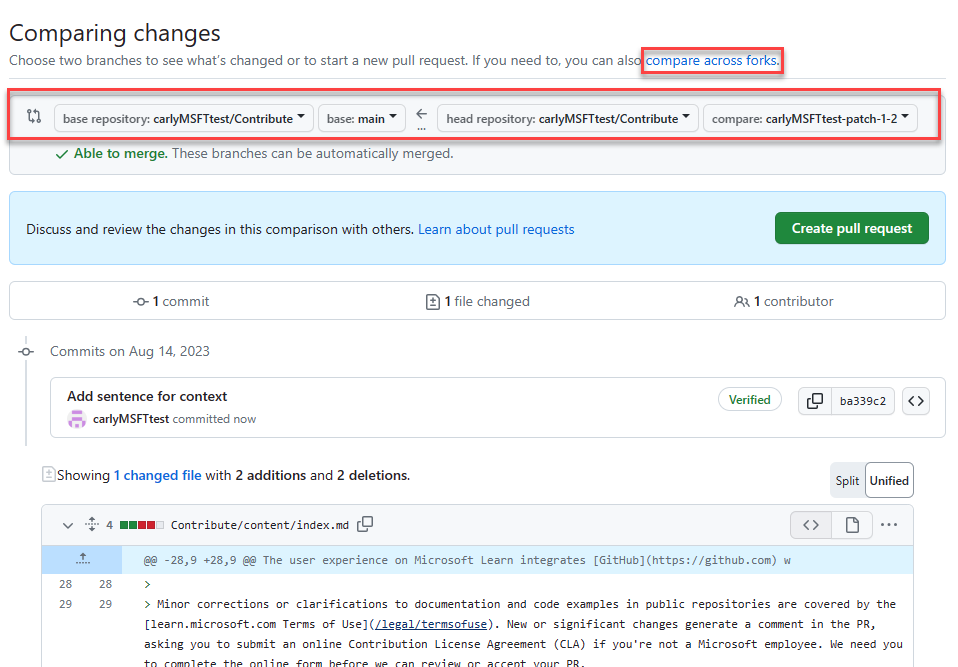
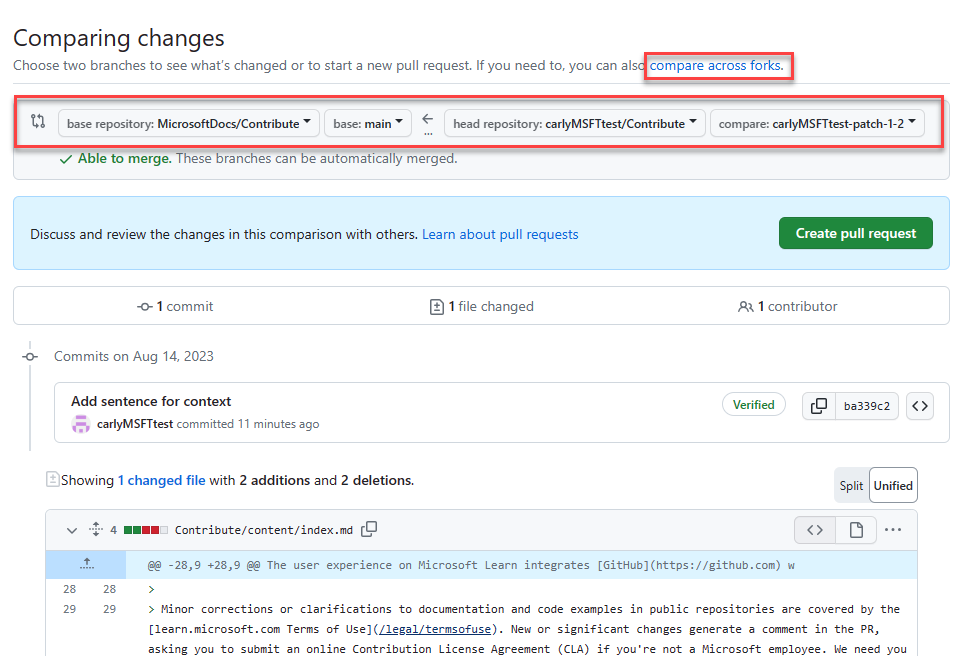
Change image and update alt text

diff --git a/Contribute/content/index.md b/Contribute/content/index.md
@@ -36,13 +36,13 @@ Quick edits streamline the process to report and fix small errors and omissions 
 
 1. Navigate to the documentation you wihs to edit. _Some_ docs pages allow you to edit content directly in the browser. If so, you'll see an **Edit** pencil icon like the one shown below. Choosing the **Edit** pencil icon takes you to the source file on GitHub.
 
-   :::image type="content" source="media/index/edit-article.png" alt-text="Screenshot of the edit article link.":::
+   :::image type="content" source="media/index/edit-article.png" alt-text="Screenshot of an Azure documentation article showing the edit pencil icon.":::
 
    If the **Edit** button isn't present, it means the content isn't open to public contributions. Some pages are generated (for example, from inline documentation in code) and must be edited in the project they belong to.
 
 1. Select the pencil icon at the top of the GitHub file page. If the pencil icon is grayed out or doesn't display, you need to log in to your GitHub account.
 
-   :::image type="content" source="media/index/edit-icon.png" alt-text="Location of the fork and edit pencil icon.":::
+   :::image type="content" source="media/index/edit-icon.png" alt-text="Screenshot of the Azure article within GitHub,showing the edit pencil icon.":::
 
     At the top of the article is the article's metadata. Metadata is applied to articles for reporting, discoverability via search, and driving aspects of the site experience. If you're making minor updates to a published article, you probably won't need to change the metadata.
 
@@ -54,13 +54,13 @@ Quick edits streamline the process to report and fix small errors and omissions 
 
 1. Enter a commit message. The commit message becomes the title of your PR and should be a brief summary of your changes (for example, "Fix spelling and grammar errors"). Optionally, add an **Extended description** to give more details about your changes. Select **Propose changes**:
 
-   :::image type="content" source="media/index/commit-changes.png" alt-text="Propose and commit file changes.":::
+   :::image type="content" source="media/index/commit-changes.png" alt-text="Screenshot of the propose changes pop-up.":::
 
 1. Now that you've proposed and committed your changes, you need to ask the owners of the repository to "pull" your changes into their repository. This is done using a [pull request](https://docs.github.com/articles/using-pull-requests)(PR). When you select **Propose changes**, you'll see a page like this:
 
-   :::image type="content" source="media/index/create-pull-request.png" alt-text="Screenshot of the Comparing changes screen.":::
+   :::image type="content" source="media/index/create-pull-request.png" alt-text="Screenshot of the comparing changes screen.":::
 
-   Select **compare across forks** and make sure your branch configuration looks like that shown above. Your PR should propose changes from your fork and branch (represented by the two items on the right side of the arrow) into the Microsoft repo's fork and `main` branch (represented by the two items on the left side of the arrow).
+   Select **compare across forks** and make sure your branch configuration looks like that shown above. Your PR should propose changes from your fork and branch (represented by the two items on the right side of the arrow) into the MicrosoftDocs repo's fork and `main` branch (represented by the two items on the left side of the arrow). You may have to select the dropdown boxes to adjust the repo and branch names.
 
    Review your changes, and then select **Create pull request**.
 
